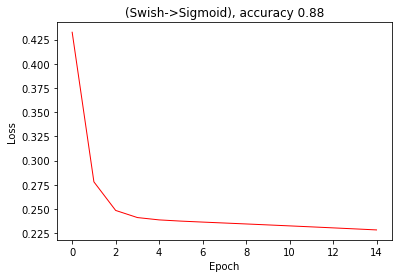
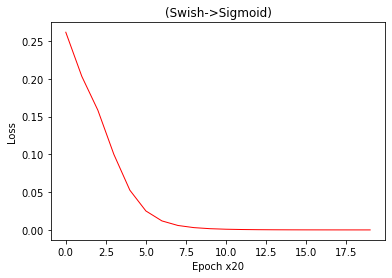
updated ex2

diff --git a/Intro to Deep Learning/01_The Perceptron/code examples/ex-2_swish_sigmoid.py b/Intro to Deep Learning/01_The Perceptron/code examples/ex-2_swish_sigmoid.py
@@ -1,4 +1,4 @@
-# ©[2021][Agamdeep Chopra]
+# Â©[2021][Agamdeep Chopra]
 # Feel free to use this code for learning purposes but please properly credit me in APA format.
 
 import numpy as np
@@ -7,9 +7,14 @@ from matplotlib import pyplot as plt
 alpha = 0.0008
 epsilon = 1E-9
 
-X = np.array((166,177,190,178,148,159,214,165,186,196,168,171,217,191.204,222,213,276,213,193,212,229,215,260,258,266,331)) # input
-X = X/np.linalg.norm(X)
-Y_exp = np.array((0,0,0,0,0,0,1,0,0,0,0,0,1,0,1,1,1,1,0,1,1,1,1,1,1,1)) # expected output
+X = np.random.rand(1000)*400 # input
+Y_exp = np.zeros((X.shape))
+for i in range(len(X)):
+    Y_exp[i] = X[i]>200       # expected output
+
+def norm_input(X):
+    X = (X-np.min(X))/(np.max(X)-np.min(X))
+    return X
 
 def percp_parm():
     w = np.random.randn((1))
@@ -54,63 +59,77 @@ def perceptron(x,ye,epoch=100):
     w1,b1 = percp_parm()
     w2,b2 = percp_parm()
     ls = []
+    ac = []
     list_index = 0
+    x = norm_input(x) # Normalizing the input. This is done to prevent exploding or vanishing gradients.
     for i in range(epoch):
         for j in range(len(x)):
             yp = fprop(x[j], w2, b2, w1, b1)
             w2,b2,w1,b1 = bprop(alpha, x[j], yp, ye[j], w2, b2, w1, b1)
-            if i%100 == 0 and j == 1:
+            if i%20 == 0 and j == 1:
                 ls.append(loss(yp, ye[j]))
-                print("Loss", ls[list_index])
+                print("Epoch:",i," Loss:", ls[list_index])
                 list_index += 1
-    return w2,b2,w1,b1,ls
+    return w2,b2,w1,b1,ls,ac
 #%%
 #Run the following:
 np.random.seed(seed=65)
-w2,b2,w1,b1,J = perceptron(X, Y_exp,epoch = 2000)
+w2,b2,w1,b1,J,ac = perceptron(X, Y_exp,epoch = 400)
 print("optimized weight[2,1] = ",w2,w1," and bias[2,1] = ",b2,b1)
-plt.plot(J, color='red',linewidth=1)
-plt.xlabel('Epoch')
+plt.plot(J, color='red',linewidth=1,label = "Loss")
+plt.plot(ac, color='gray',linewidth=1,label = "Accuracy")
+plt.xlabel('Epoch x20')
 plt.ylabel('Loss')
 plt.title('(Swish->Sigmoid)')
 plt.show()
-print(X,"\n-o->\n",np.around(fprop(X,w2,b2,w1,b1)),"\n?=\n",Y_exp)
-tt=np.around(fprop(X,w2,b2,w1,b1))
-for i in range(len(X)):
-    tt[i] = tt[i]==Y_exp[i]
+print("\nTesting:")
+Xt = np.random.rand(100)*400
+Yt = np.zeros((Xt.shape))
+for i in range(len(Xt)):
+    Yt[i] = Xt[i]>200
+print("\nTest Set:\n",Xt,"\nPrediction:\n",np.around(fprop(norm_input(Xt),w2,b2,w1,b1)),"\nExpectation:\n",Yt)
+tt=np.around(fprop(norm_input(Xt),w2,b2,w1,b1))
+for i in range(len(Xt)):
+    tt[i] = tt[i]==Yt[i]
 print(tt)
-print("Accuracy=", np.mean(tt))
-# Expected output for seed=65, epoch = 2000 -> Accuracy= 0.9615384615384616
+print("Test Accuracy=", np.mean(tt))
+# Expected output for seed=65, epoch = 400 -> Test accuracy ≈ 1.0
 #%%
 '''
 If everything works as expected, you should get something like this:
-Loss [0.43256865]
-Loss [0.27795202]
-Loss [0.24842286]
-Loss [0.24105851]
-Loss [0.2386457]
-Loss [0.23738767]
-Loss [0.23638189]
-Loss [0.23541746]
-Loss [0.23444735]
-Loss [0.23346188]
-Loss [0.23245947]
-Loss [0.23144021]
-Loss [0.23040453]
-Loss [0.22935289]
-Loss [0.22828577]
-optimized weight[2,1] =  [-0.45552109] [-1.02521568]  and bias[2,1] =  [-0.02756795] [0.06054726]
-[0.15330087 0.16345937 0.17546486 0.16438286 0.13667789 0.14683638
- 0.19762884 0.15237737 0.17177086 0.18100585 0.15514787 0.15791837
- 0.20039934 0.17657675 0.20501683 0.19670534 0.25488579 0.19670534
- 0.17823535 0.19578184 0.21148133 0.19855234 0.2401098  0.2382628
- 0.2456508  0.30567825] 
--o->
- [0 0 0 0 0 0 1 0 0 0 0 0 1 0 1 1 1 1 0 1 1 1 1 1 1 1] 
-?=
- [0 0 0 0 0 0 1 0 0 0 0 0 1 0 1 1 1 1 0 1 1 1 1 1 1 1]
- [1 1 1 1 1 1 1 1 1 1 1 1 1 1 1 1 1 1 1 1 1 1 1 1 1 1]
-Accuracy= 1.0
+Epoch: 0  Loss: [0.26148347]
+Epoch: 20  Loss: [0.20311161]
+...
+Epoch: 360  Loss: [2.47054208e-05]
+Epoch: 380  Loss: [1.7035298e-05]
+optimized weight[2,1] =  [-4.68616377] [-4.34582901]  and bias[2,1] =  [2.33193864] [2.9072655]
+
+Testing:
+
+Test Set:
+ [121.35055235  65.180089   279.72550129 308.60433267 205.82097905
+  94.32275525  92.01585064 202.28606654  53.67398519 224.58490519
+ ...
+ 391.87359994 202.83060501 318.4418724  160.97708227  69.98939625
+ 262.00612419 104.73410931 152.34305253 255.62472255 342.85440107] 
+Prediction:
+ [0. 0. 1. 1. 1. 0. 0. 1. 0. 1. 0. 1. 1. 0. 0. 1. 0. 0. 1. 0. 0. 0. 1. 0.
+ 0. 1. 1. 1. 1. 0. 0. 0. 0. 1. 1. 0. 1. 0. 0. 0. 0. 0. 1. 0. 1. 1. 0. 0.
+ 1. 1. 0. 1. 1. 0. 1. 0. 1. 1. 1. 0. 0. 0. 1. 1. 0. 0. 0. 1. 0. 0. 1. 0.
+ 1. 0. 1. 1. 1. 0. 1. 1. 0. 1. 0. 0. 0. 0. 0. 0. 0. 0. 1. 1. 1. 0. 0. 1.
+ 0. 0. 1. 1.] 
+Expectation:
+ [0. 0. 1. 1. 1. 0. 0. 1. 0. 1. 0. 1. 1. 0. 0. 1. 0. 0. 1. 0. 0. 0. 1. 0.
+ 0. 1. 1. 1. 1. 0. 0. 0. 0. 1. 1. 0. 1. 0. 0. 0. 0. 0. 1. 0. 1. 1. 0. 0.
+ 1. 1. 0. 1. 1. 0. 1. 0. 1. 1. 1. 0. 0. 0. 1. 1. 0. 0. 0. 1. 0. 0. 1. 0.
+ 1. 0. 1. 1. 1. 0. 1. 1. 0. 1. 0. 0. 0. 0. 0. 0. 0. 0. 1. 1. 1. 0. 0. 1.
+ 0. 0. 1. 1.]
+[1. 1. 1. 1. 1. 1. 1. 1. 1. 1. 1. 1. 1. 1. 1. 1. 1. 1. 1. 1. 1. 1. 1. 1.
+ 1. 1. 1. 1. 1. 1. 1. 1. 1. 1. 1. 1. 1. 1. 1. 1. 1. 1. 1. 1. 1. 1. 1. 1.
+ 1. 1. 1. 1. 1. 1. 1. 1. 1. 1. 1. 1. 1. 1. 1. 1. 1. 1. 1. 1. 1. 1. 1. 1.
+ 1. 1. 1. 1. 1. 1. 1. 1. 1. 1. 1. 1. 1. 1. 1. 1. 1. 1. 1. 1. 1. 1. 1. 1.
+ 1. 1. 1. 1.]
+Test Accuracy= 1.0
 
 Your accuracy might be very different depending on the random initializations. 
 If accuracy is very bad, try running the code again and perhapse use random seed to have more control over the rand initializations.
